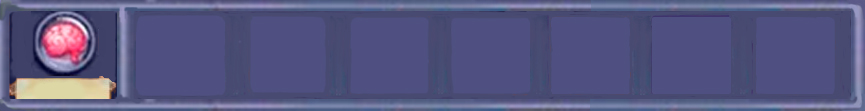
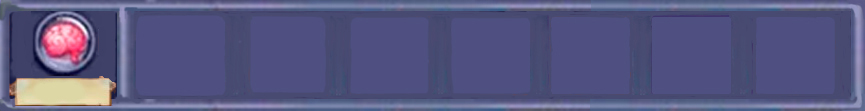
Change the font of the game

Changed region(s): [[0.0, 0.8919, 0.1561, 0.973]]

diff --git a/src/presentation/POOBvsZOMBIESGUI.java b/src/presentation/POOBvsZOMBIESGUI.java
@@ -5,6 +5,8 @@ import domain.*;
 import javax.swing.*;
 import java.awt.*;
 import java.awt.event.*;
+import java.io.File;
+import java.io.IOException;
 import java.util.*;
 
 public class POOBvsZOMBIESGUI extends JFrame {
@@ -84,6 +86,8 @@ public class POOBvsZOMBIESGUI extends JFrame {
     private JLabel sunLabel;
     private JLabel brainLabel;
 
+    private Font sizedFont;
+
     public POOBvsZOMBIESGUI() {
         setTitle("PoobVsZombies");
         GraphicsEnvironment ge = GraphicsEnvironment.getLocalGraphicsEnvironment();
@@ -105,7 +109,9 @@ public class POOBvsZOMBIESGUI extends JFrame {
         frameForMvM();
         createChooseButtons();
         frameChoose();
+        fontOfSunsBrains();
         prepareGame();
+
     }
 
     private void prepareElementsStart() {
@@ -166,7 +172,15 @@ public class POOBvsZOMBIESGUI extends JFrame {
         preparePvMButton();
         prepareMvMButton();
     }
+    private void fontOfSunsBrains(){
 
+        try {
+            Font customFont = Font.createFont(Font.TRUETYPE_FONT, new File("src/resources/Fonts/Hotel W00 Black.ttf"));
+            sizedFont = customFont.deriveFont(Font.PLAIN, 12);
+        } catch (FontFormatException | IOException e) {
+            throw new RuntimeException(e);
+        }
+    }
     private void preparePvPButton() {
         PvPButton.setBounds( (int) (4.05*(WIDTH / 9)), (int) (1.46*(HEIGHT / 3.5)), (int) (WIDTH / 3.3), (int) (HEIGHT / 8));
         ImageIcon imagePvPButton = new ImageIcon(getClass().getResource("/resources/ButtonPvP.png"));
@@ -382,6 +396,27 @@ public class POOBvsZOMBIESGUI extends JFrame {
                 Image buton1 = image.getImage().getScaledInstance((int) (WIDTH*0.4/8),(int) (HEIGHT*0.08),Image.SCALE_SMOOTH);
                 button.setIcon(new ImageIcon(buton1));
             }
+            if (i== 2){
+                ImageIcon image = new ImageIcon("src/resources/PeashooterSeedPacket.jpg");
+                Image buton1 = image.getImage().getScaledInstance((int) (WIDTH*0.4/8),(int) (HEIGHT*0.08),Image.SCALE_SMOOTH);
+                button.setIcon(new ImageIcon(buton1));
+            }
+            if (i== 3){
+                ImageIcon image = new ImageIcon("src/resources/ECIPlantSeedPacket.jpg");
+                Image buton1 = image.getImage().getScaledInstance((int) (WIDTH*0.4/8),(int) (HEIGHT*0.08),Image.SCALE_SMOOTH);
+                button.setIcon(new ImageIcon(buton1));
+            }
+            if (i== 4){
+                ImageIcon image = new ImageIcon("src/resources/Wall-nutSeedPacket.jpg");
+                Image buton1 = image.getImage().getScaledInstance((int) (WIDTH*0.4/8),(int) (HEIGHT*0.08),Image.SCALE_SMOOTH);
+                button.setIcon(new ImageIcon(buton1));
+            }
+            if (i== 5){
+                ImageIcon image = new ImageIcon("src/resources/PotatoMineSeedPacket.jpg");
+                Image buton1 = image.getImage().getScaledInstance((int) (WIDTH*0.4/8),(int) (HEIGHT*0.08),Image.SCALE_SMOOTH);
+                button.setIcon(new ImageIcon(buton1));
+            }
+
             plantMenuPanel.add(button);
             plantOptions.add(button);
         }
@@ -391,6 +426,8 @@ public class POOBvsZOMBIESGUI extends JFrame {
         sunLabel.setText(String.valueOf(100));
         sunLabel.setBounds((int) (WIDTH*0.4/16),(int)(HEIGHT*0.075),(int) (WIDTH*0.4/8),(int) (HEIGHT*0.08*0.25));
         sunLabel.setOpaque(false);
+        sunLabel.setFont(sizedFont);
+        sunLabel.setForeground(Color.decode("#1d1401"));
         layeredPane.add(sunLabel,JLayeredPane.POPUP_LAYER);
 
         zombieOptions = new ArrayList<>();
@@ -398,26 +435,50 @@ public class POOBvsZOMBIESGUI extends JFrame {
         zombieMenuPanel.setOpaque(false); // Fondo transparente
         zombieMenuPanel.setBounds((int) (WIDTH*0.5), 0, (int) (WIDTH*0.5), (int) (HEIGHT*0.1));
         for (int i = 0; i < 9; i++) {
-            if (i == 1) {
-                // Insertar espacio adicional antes del segundo botón
+            JButton button = new JButton();
+            button.setContentAreaFilled(false);
+            button.setBorderPainted(false);
+            button.setPreferredSize(new Dimension((int) (WIDTH*0.4/8),(int) (HEIGHT*0.08)));
+            if (i==1){
                 JPanel spacer = new JPanel();
                 spacer.setOpaque(false); // Fondo transparente
                 spacer.setPreferredSize(new Dimension((int) (WIDTH*0.005), 1)); // Ancho del espacio extra
                 zombieMenuPanel.add(spacer);
+                ImageIcon image = new ImageIcon("src/resources/ZombieSeedPacket.jpg");
+                Image buton1 = image.getImage().getScaledInstance((int) (WIDTH*0.4/8),(int) (HEIGHT*0.08),Image.SCALE_SMOOTH);
+                button.setIcon(new ImageIcon(buton1));
             }
-            JButton button = new JButton("B");
-            button.setContentAreaFilled(false);
-            button.setBorderPainted(true);
-            button.setPreferredSize(new Dimension((int) (WIDTH*0.4/8),(int) (HEIGHT*0.08)));
+            if (i== 2){
+                ImageIcon image = new ImageIcon("src/resources/ConeHeadSeedPacket.jpg");
+                Image buton1 = image.getImage().getScaledInstance((int) (WIDTH*0.4/8),(int) (HEIGHT*0.08),Image.SCALE_SMOOTH);
+                button.setIcon(new ImageIcon(buton1));
+            }
+            if (i== 3){
+                ImageIcon image = new ImageIcon("src/resources/BucketheadSeedPacket.jpg");
+                Image buton1 = image.getImage().getScaledInstance((int) (WIDTH*0.4/8),(int) (HEIGHT*0.08),Image.SCALE_SMOOTH);
+                button.setIcon(new ImageIcon(buton1));
+            }
+            if (i== 4){
+                ImageIcon image = new ImageIcon("src/resources/ZombieSeedPacket.jpg");
+                Image buton1 = image.getImage().getScaledInstance((int) (WIDTH*0.4/8),(int) (HEIGHT*0.08),Image.SCALE_SMOOTH);
+                button.setIcon(new ImageIcon(buton1));
+            }
+            if (i== 5){
+                ImageIcon image = new ImageIcon("src/resources/ZombieSeedPacket.jpg");
+                Image buton1 = image.getImage().getScaledInstance((int) (WIDTH*0.4/8),(int) (HEIGHT*0.08),Image.SCALE_SMOOTH);
+                button.setIcon(new ImageIcon(buton1));
+            }
             zombieMenuPanel.add(button);
             zombieOptions.add(button);
         }
         layeredPane.add(zombieMenuPanel,JLayeredPane.MODAL_LAYER);
 
         brainLabel = new JLabel();
-        brainLabel.setText(String.valueOf(100));
+        brainLabel.setText(String.valueOf(10000));
+        brainLabel.setForeground(Color.decode("#1d1401"));
         brainLabel.setBounds((int) ((WIDTH*0.4/16)+ WIDTH/2),(int)(HEIGHT*0.075),(int) (WIDTH*0.4/8),(int) (HEIGHT*0.08*0.25));
         brainLabel.setOpaque(false);
+        brainLabel.setFont(sizedFont);
         layeredPane.add(brainLabel,JLayeredPane.POPUP_LAYER);
     }
 
